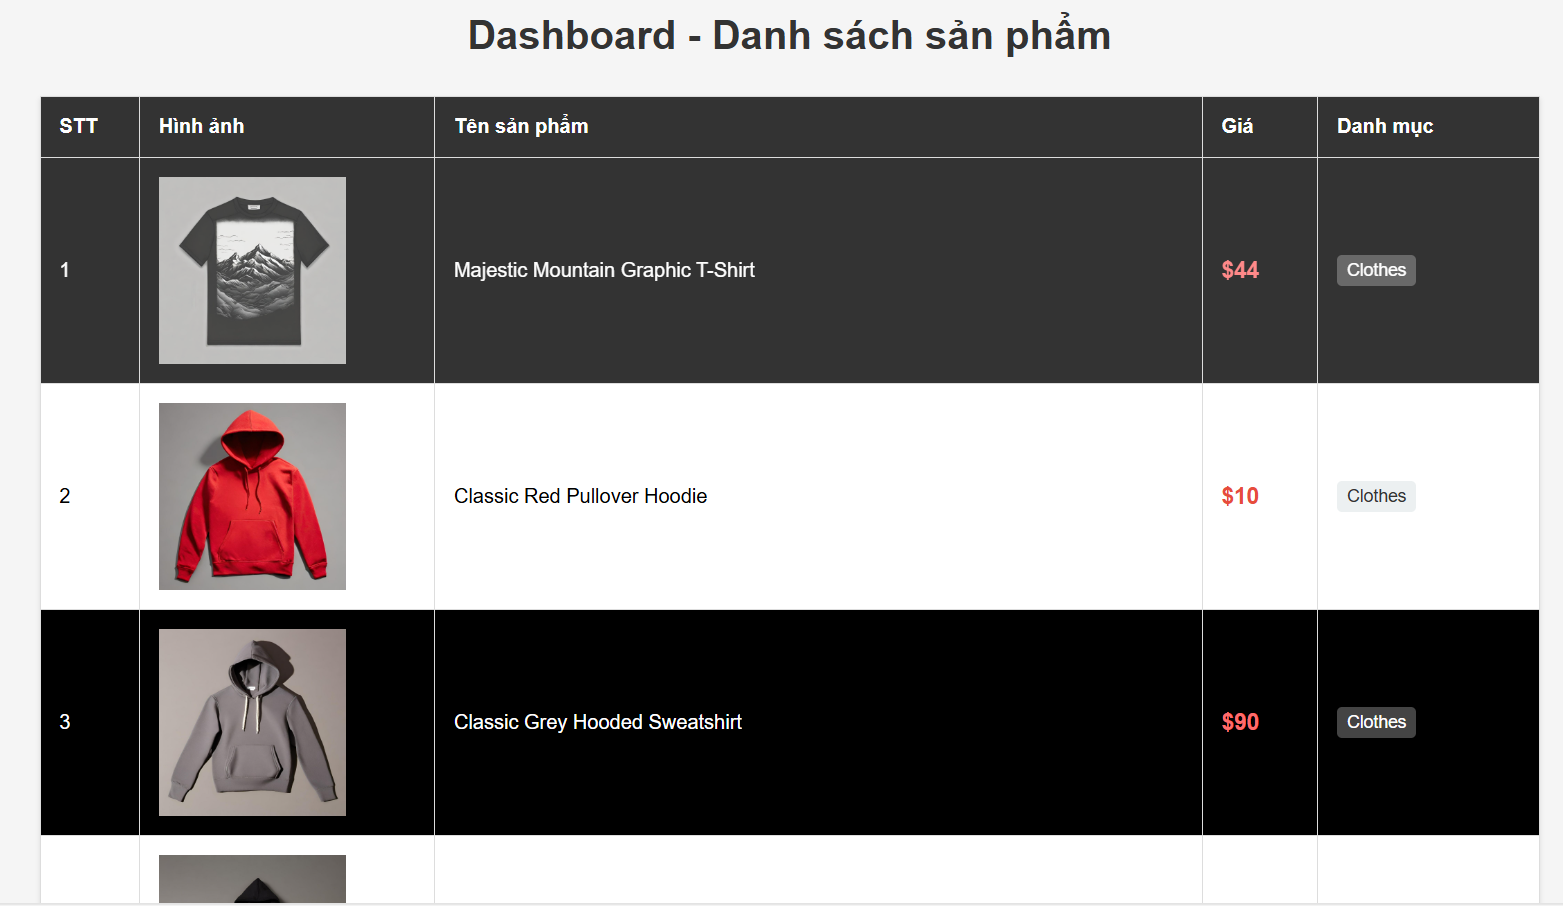
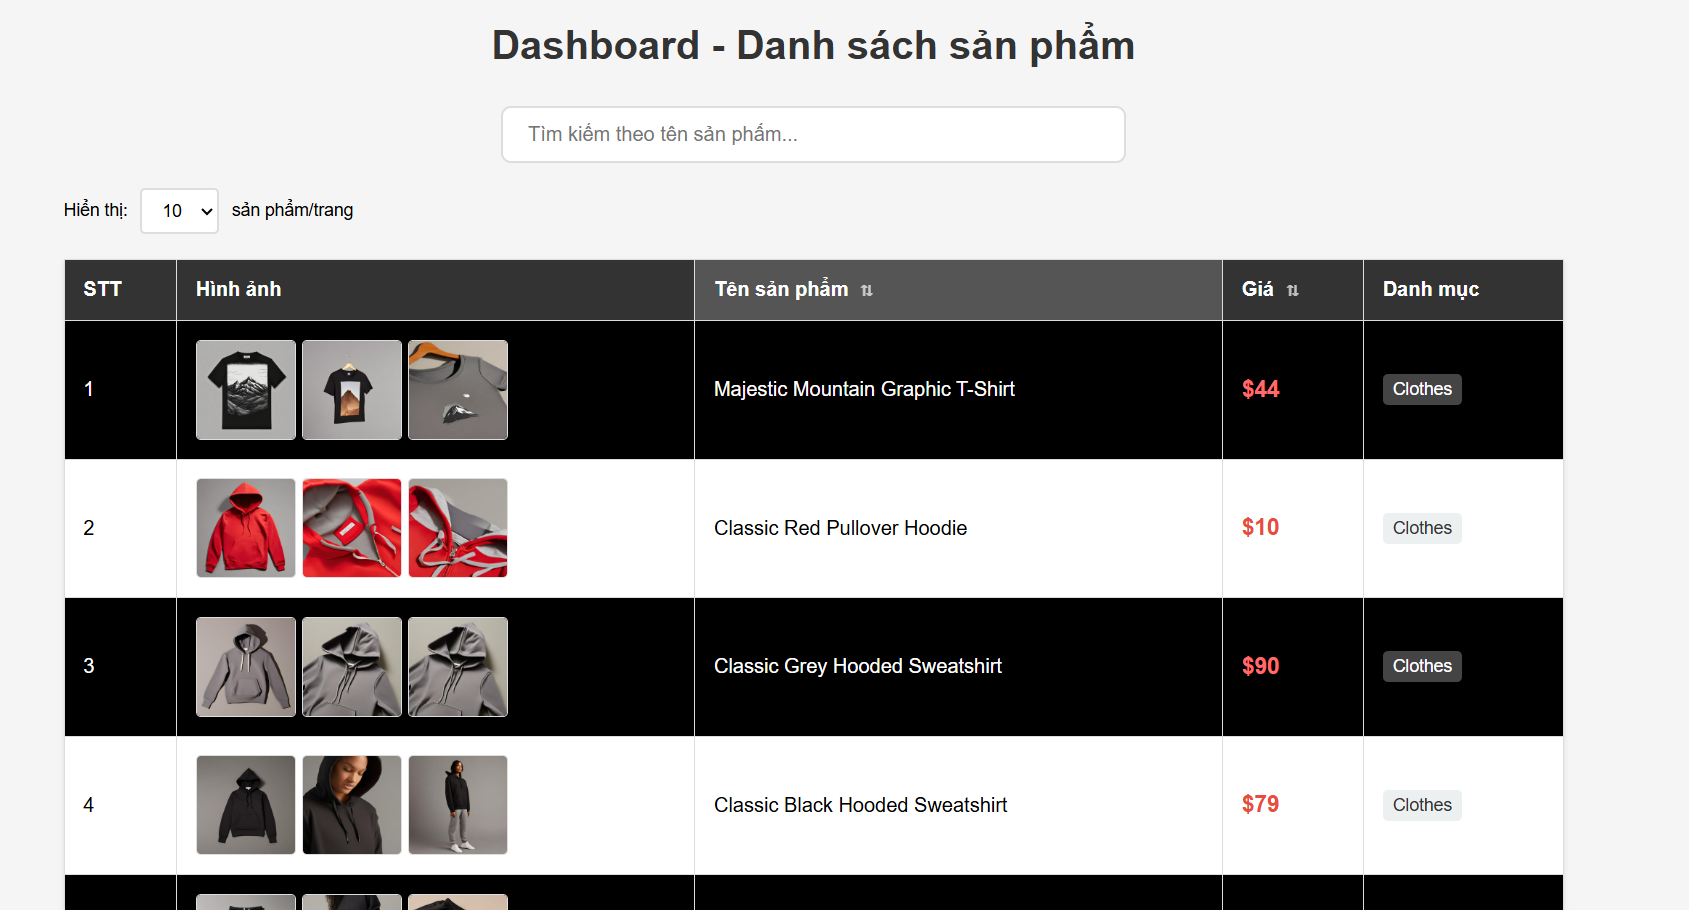
first_push

diff --git a/dashboard.js b/dashboard.js
@@ -144,23 +144,48 @@ function displayProducts(products) {
   // Thêm từng sản phẩm vào bảng
   currentProducts.forEach((product, index) => {
     const row = document.createElement('tr');
-    const imageUrl = getImageUrl(product.images);
-    
-    // Tạo img element riêng để xử lý tốt hơn
-    const img = document.createElement('img');
-    img.className = 'product-image';
-    img.alt = product.title;
-    img.referrerPolicy = 'no-referrer'; // Quan trọng: Ẩn referrer để Imgur không chặn
-    img.src = imageUrl;
-    img.onerror = function() {
-      this.src = 'https://via.placeholder.com/150x150?text=No+Image';
-    };
     
     const td1 = document.createElement('td');
     td1.textContent = startIndex + index + 1;
     
+    // Tạo gallery cho tất cả hình ảnh
     const td2 = document.createElement('td');
-    td2.appendChild(img);
+    const imageGallery = document.createElement('div');
+    imageGallery.className = 'image-gallery';
+    
+    // Lấy tất cả hình ảnh (tối đa 3 hình)
+    const images = product.images || [];
+    const imagesToShow = images.slice(0, 3);
+    
+    imagesToShow.forEach(imageUrl => {
+      const img = document.createElement('img');
+      img.className = 'product-image';
+      img.alt = product.title;
+      img.referrerPolicy = 'no-referrer';
+      
+      // Xử lý URL ảnh
+      let cleanUrl = imageUrl;
+      if (typeof cleanUrl === 'string') {
+        cleanUrl = cleanUrl.replace(/[\[\]"]/g, '').trim();
+      }
+      
+      img.src = cleanUrl;
+      img.onerror = function() {
+        this.src = 'https://via.placeholder.com/80x80?text=No+Image';
+      };
+      
+      imageGallery.appendChild(img);
+    });
+    
+    // Nếu không có hình nào, hiển thị placeholder
+    if (imagesToShow.length === 0) {
+      const img = document.createElement('img');
+      img.className = 'product-image';
+      img.src = 'https://via.placeholder.com/80x80?text=No+Image';
+      imageGallery.appendChild(img);
+    }
+    
+    td2.appendChild(imageGallery);
     
     const td3 = document.createElement('td');
     td3.textContent = product.title;

diff --git a/index.html b/index.html
@@ -223,6 +223,20 @@
             display: block;
         }
 
+        .image-gallery {
+            display: flex;
+            gap: 5px;
+            flex-wrap: wrap;
+        }
+
+        .image-gallery img {
+            width: 80px;
+            height: 80px;
+            object-fit: contain;
+            border: 1px solid #ddd;
+            border-radius: 4px;
+        }
+
         .product-price {
             font-size: 18px;
             font-weight: bold;
